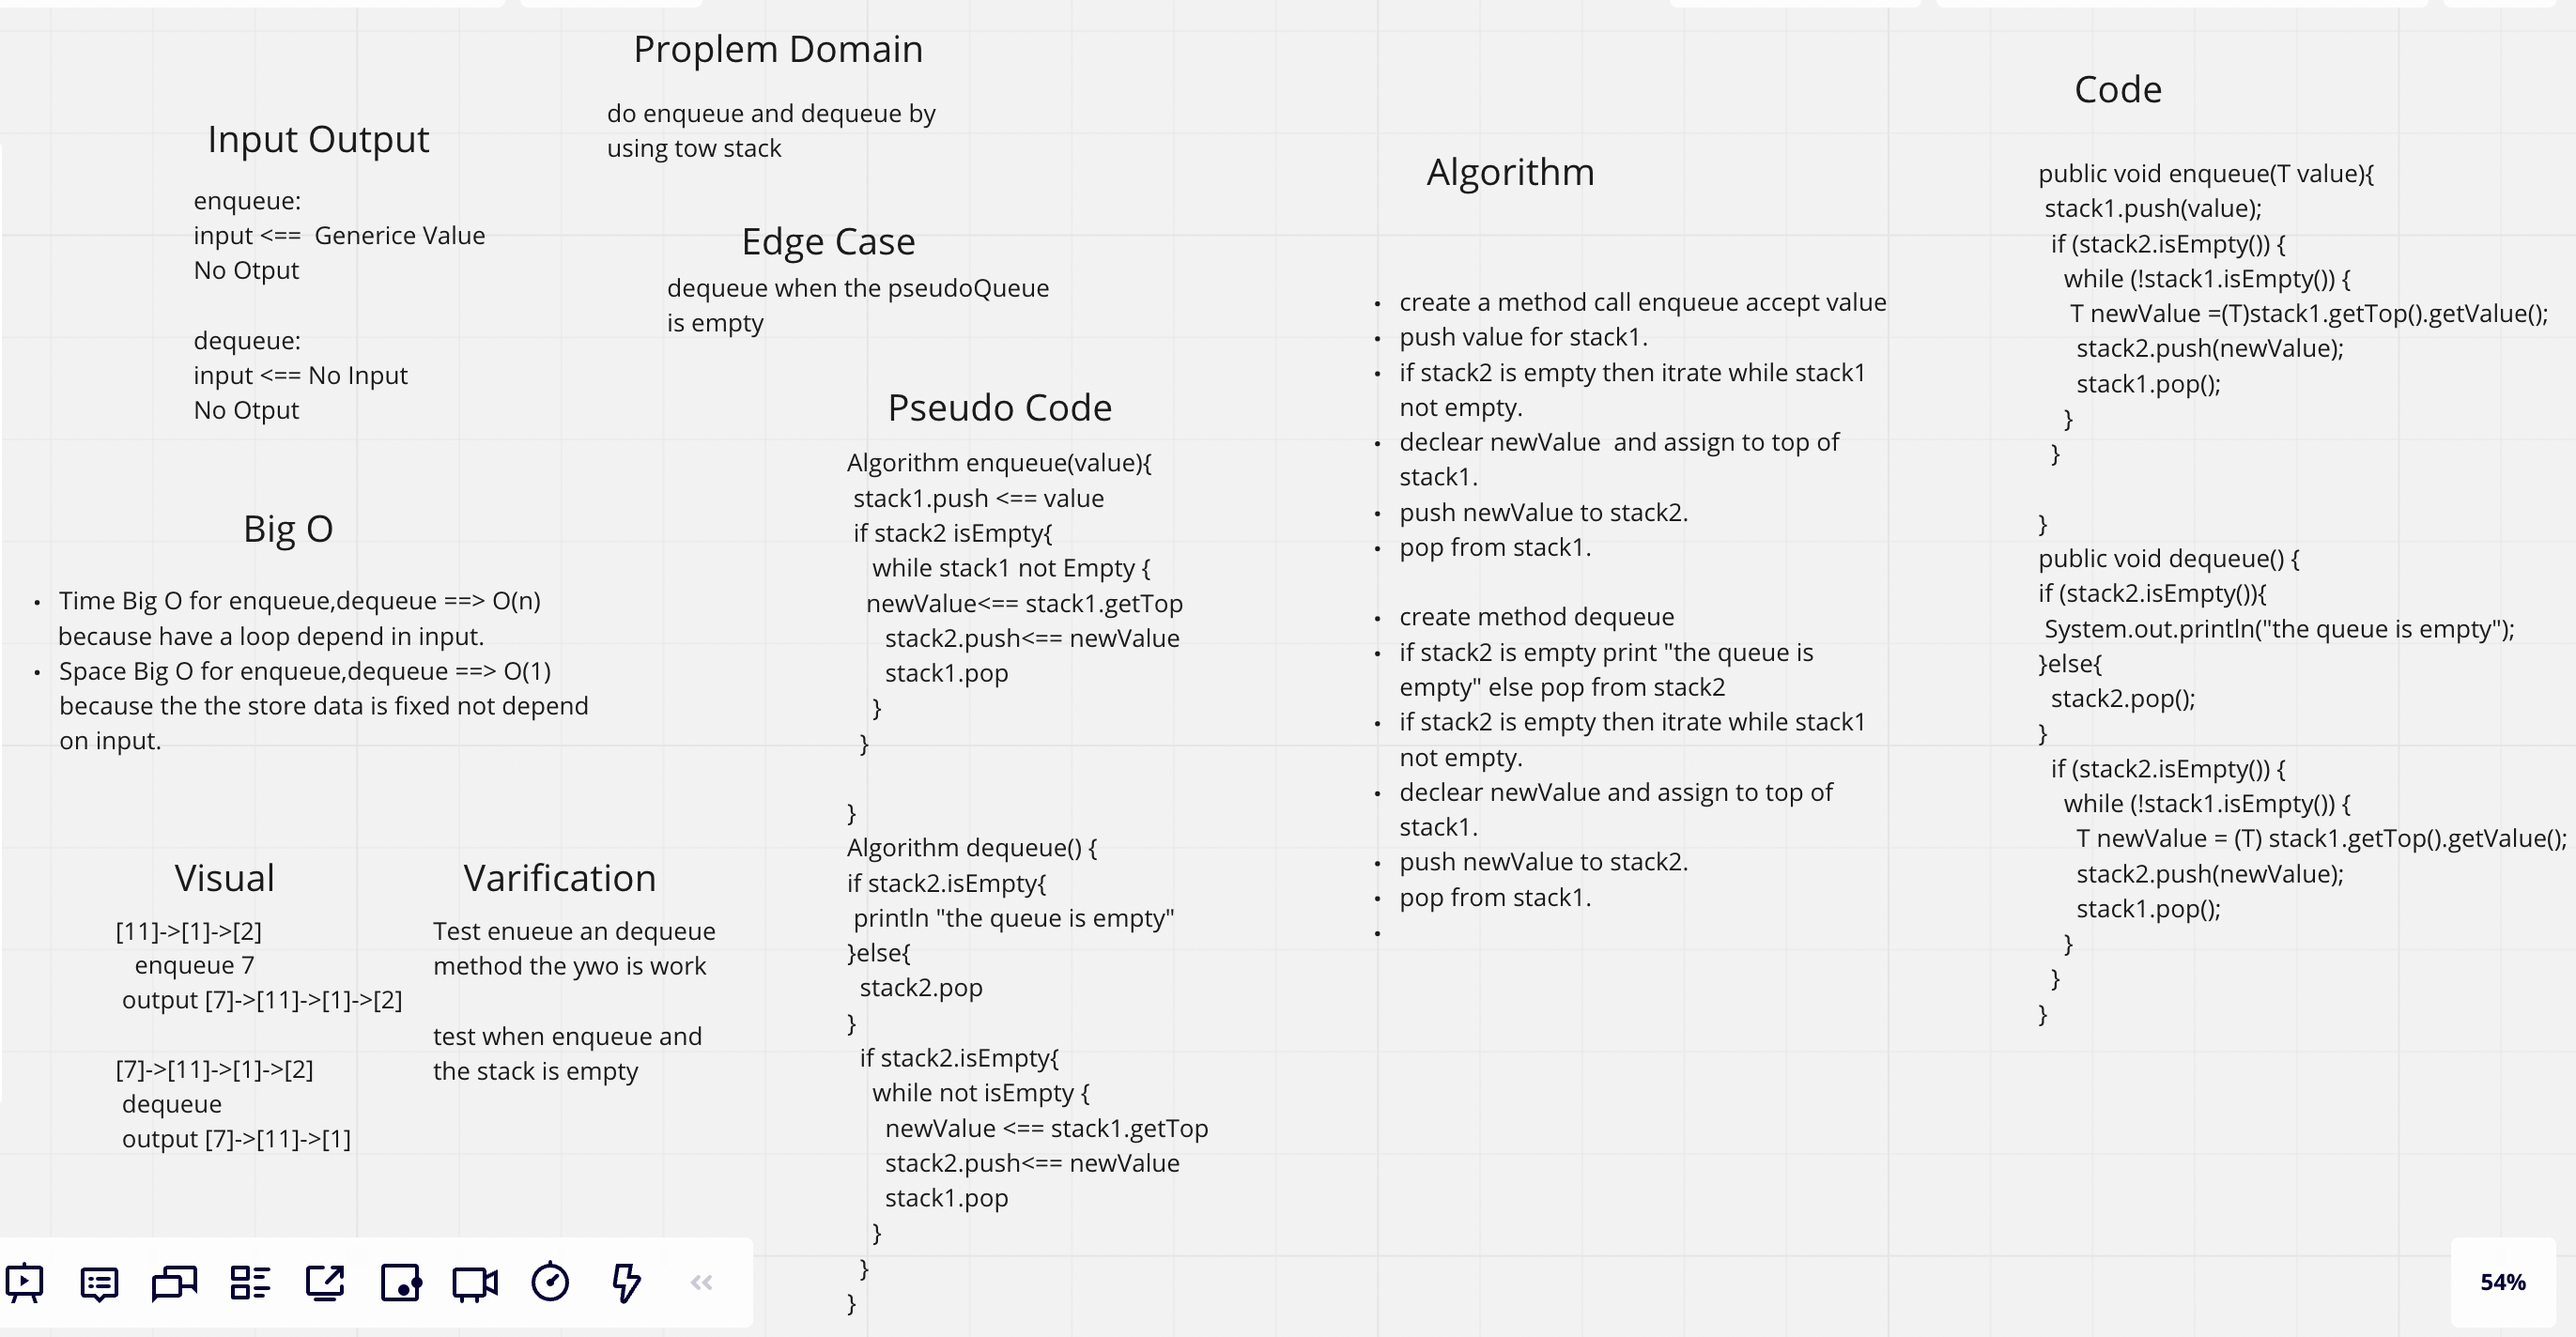
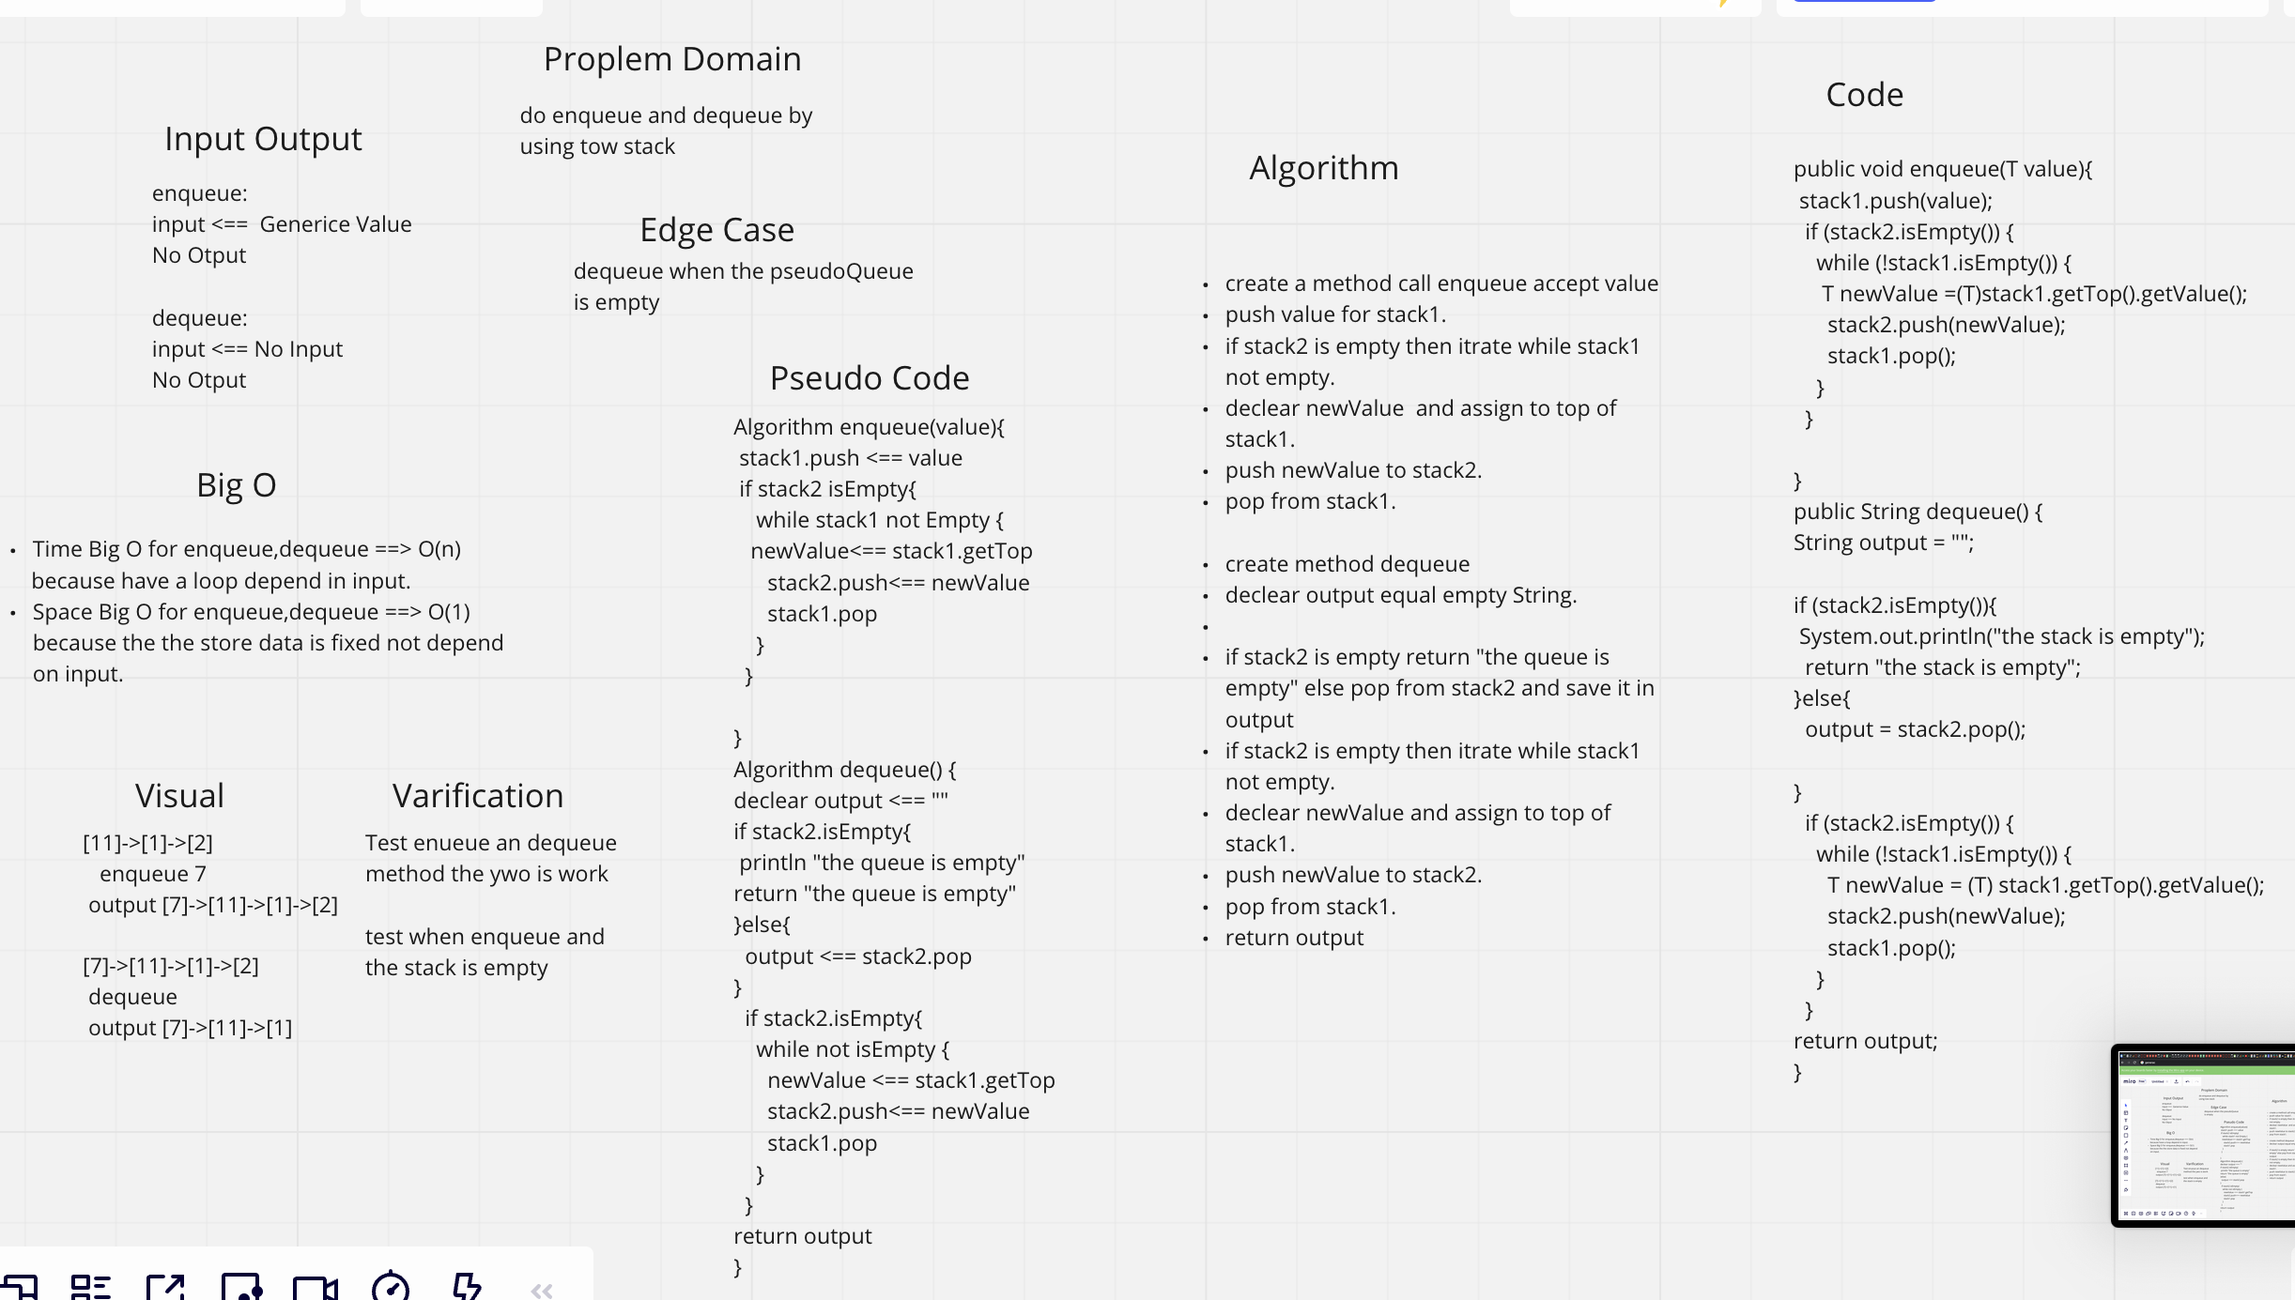
challeng 11

diff --git a/java/stack-and-queue/lib/src/main/java/stack/and/queue/Library.java b/java/stack-and-queue/lib/src/main/java/stack/and/queue/Library.java
@@ -6,34 +6,35 @@ package stack.and.queue;
 public class Library {
   public static void main(String[] args) {
 Stack <Integer> v = new Stack<>();
-//    System.out.println(v.isEmpty());
-//    System.out.println(v.peak());
+    System.out.println(v.isEmpty());
+    System.out.println(v.peak());
     v.push(6);
     v.push(5);
-//    System.out.println(v.peak());
+    System.out.println(v.peak());
     v.pop();
     v.pop();
     v.pop();
-//    String s ="rrrr";
-//    s.l
+
 
     System.out.println(v.peak());
     Queue <Integer> n = new Queue<>();
     n.enqueue(1);
     System.out.println(n.dequeue());
-//
+
     PseudoQueue<Integer> ss = new PseudoQueue<Integer>();
     ss.enqueue(5);
     ss.enqueue(4);
     System.out.println(ss.toString());
-ss.dequeue();
+
+    System.out.println(ss.dequeue());
+
     System.out.println(ss.toString());
 
-//    Stack<Integer> stack = new Stack<>();
-//    stack.push(5);
-//    stack.push(3);
-//    stack.push(9);
-//    System.out.println(stack.getMax());
+    Stack<Integer> stack = new Stack<>();
+    stack.push(5);
+    stack.push(3);
+    stack.push(9);
+    System.out.println(stack.getMax());
   }
 }
 

diff --git a/java/stack-and-queue/lib/src/main/java/stack/and/queue/PseudoQueue.java b/java/stack-and-queue/lib/src/main/java/stack/and/queue/PseudoQueue.java
@@ -16,11 +16,15 @@ public class  PseudoQueue<T> {
     }
 
   }
-  public void dequeue() {
+  public String dequeue() {
+    String output = "";
+
     if (stack2.isEmpty()){
-      System.out.println("the queue is empty");
+      System.out.println("the stack is empty");
+      return "the stack is empty";
     }else{
-      stack2.pop();
+      output = stack2.pop();
+
     }
     if (stack2.isEmpty()) {
       while (!stack1.isEmpty()) {
@@ -29,6 +33,9 @@ public class  PseudoQueue<T> {
         stack1.pop();
       }
     }
+
+return output;
+
   }
 
   @Override

diff --git a/java/stack-and-queue/lib/src/test/java/stack/and/queue/LibraryTest.java b/java/stack-and-queue/lib/src/test/java/stack/and/queue/LibraryTest.java
@@ -56,12 +56,15 @@ public class LibraryTest {
 
 
 
-
-
-
-
-
-
+    }
+    @Test public void testPseudo(){
+      PseudoQueue queueStack = new PseudoQueue();
+      assertEquals("dequeue when the stack is empty","the stack is empty",queueStack.dequeue());
+      queueStack.enqueue(4);
+      queueStack.enqueue(3);
+      queueStack.enqueue(1);
+      assertEquals("FIFO","4",queueStack.dequeue());
+      assertEquals("FIFO","3",queueStack.dequeue());
 
 
     }

diff --git a/java/stack-and-queue/lib/src/main/java/stack/and/queue/Stack.java b/java/stack-and-queue/lib/src/main/java/stack/and/queue/Stack.java
@@ -21,14 +21,15 @@ newNode.next=top;
 top=newNode;
   }
 
-  public void pop (){
+  public String pop (){
     if (isEmpty()){
       System.out.println("the stack is empty");
-      return;
+      return "the stack is empty";
     }
     Node current = top;
     top = top.next;
     current.next=null;
+    return current.value.toString();
   }
   public Integer getMax(){
 
